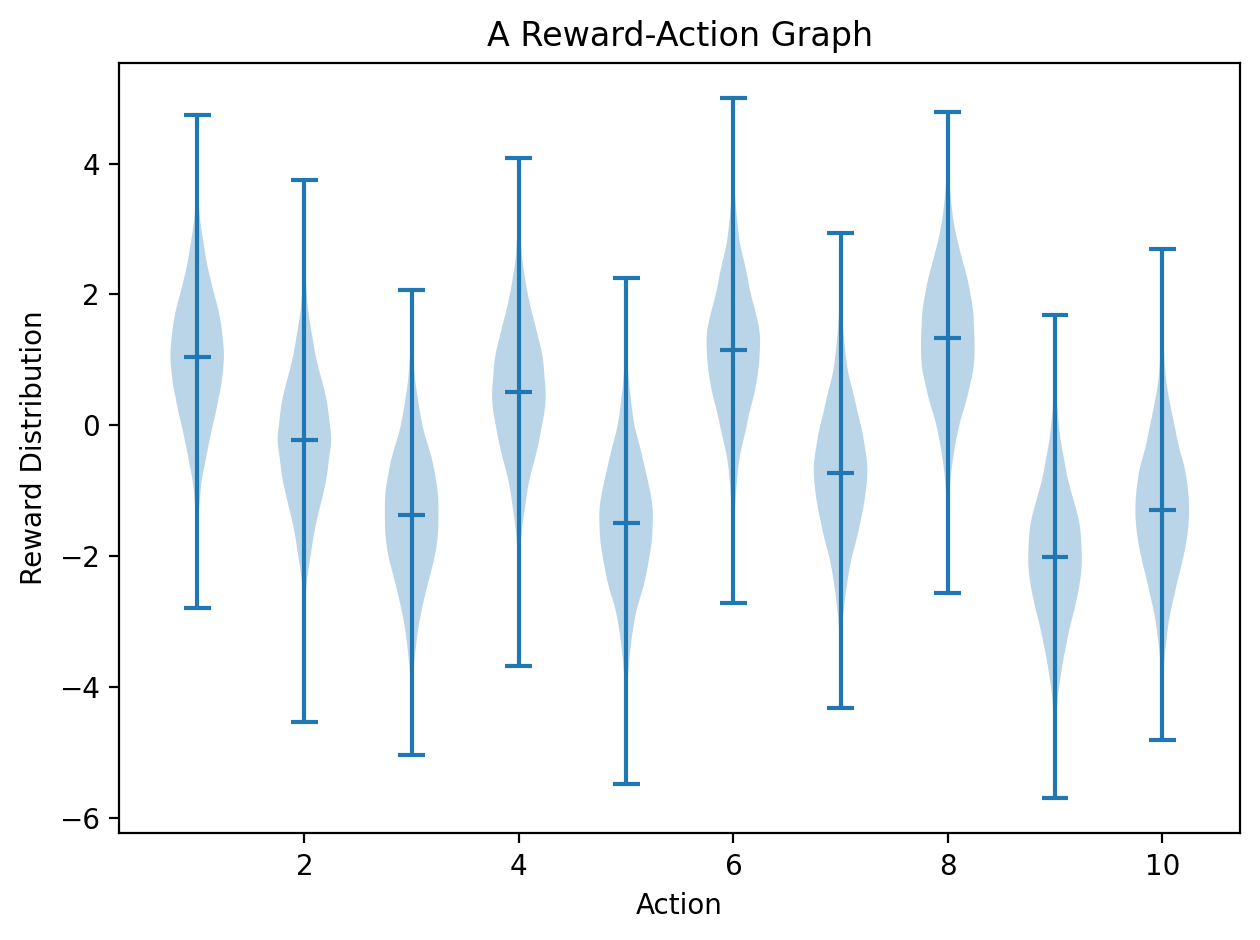
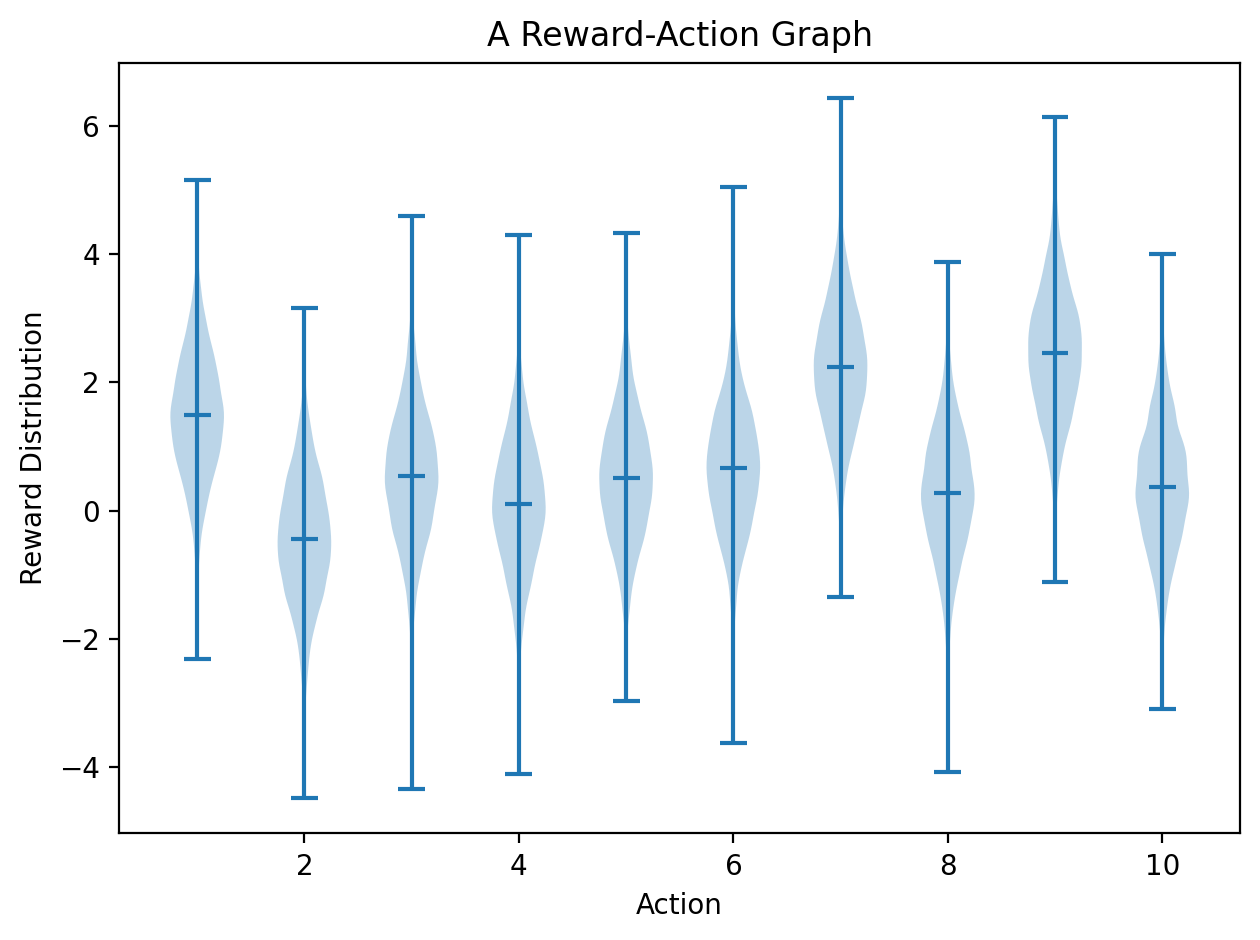
Added optimistic greedy, ucb and gradient bandits

diff --git a/exploitation_vs_exploration_algos/gradient_bandits.py b/exploitation_vs_exploration_algos/gradient_bandits.py
@@ -1,0 +1,25 @@
+import numpy as np
+class algo:
+    def __init__(self, k):
+        self.k = k
+        self.alpha = 1
+        self.counter=0
+        self.H_values = np.zeros(k, dtype=np.float64)
+        self.average_reward = 0
+        self.probability_distribution = np.array([(np.exp(self.H_values[i])/(np.exp(self.H_values).sum())) for i in range(k)])
+
+    def choose(self):
+        # π_t(a) = Pr{A_t = a} = exp(H_t(a)) / Σ_{b=1}^{k} exp(H_t(b))
+        chosen_index = np.random.choice(np.arange(self.k), p=self.probability_distribution)
+        self.counter+=1
+        return chosen_index
+    
+    def update(self, chosen_index, reward):
+        self.average_reward = (self.average_reward*(self.counter-1) + reward)/self.counter
+        #H_{t+1}(a) = H_t(a) + α (R_t - R̄_t) (1_{a=A_t} - π_t(a)) if a is the chosen action
+        self.H_values[chosen_index]=self.H_values[chosen_index] + self.alpha*(reward - self.average_reward)*(1-self.probability_distribution[chosen_index])
+        #H_{t+1}(a) = H_t(a) - α (R_t - R̄_t) π_t(a) if a isn't the chosen action
+        for i in range(self.k):
+            if i!=chosen_index:
+                self.H_values[i] = self.H_values[i] - self.alpha*(reward - self.average_reward)*self.probability_distribution[i]
+        self.probability_distribution = np.array([(np.exp(self.H_values[i])/(np.exp(self.H_values).sum())) for i in range(self.k)])

diff --git a/exploitation_vs_exploration_algos/ucb.py b/exploitation_vs_exploration_algos/ucb.py
@@ -2,17 +2,15 @@ import numpy as np
 class algo:
     def __init__(self, k):
         self.k = k
-        self.epsilon = 0.1
-        self.counter = np.zeros(k, dtype=int)
+        self.c = 2
+        self.counter = np.ones(k, dtype=int)
         self.Q_values = np.array([0.0 for i in range(k)], dtype=np.float64)
 
     def choose(self):
-        if np.random.random() < self.epsilon:
-            chosen_index = np.random.randint(0, self.k)
-        else:
-            chosen_index = np.argmax(self.Q_values)
-        self.counter[chosen_index]+=1
-        return chosen_index
+       # A_t = argmax_a [ Q_t(a) + c * sqrt(ln(t) / N_t(a)) ]
+       chosen_index = np.argmax(self.Q_values + self.c * np.sqrt(np.log(self.counter.sum())/self.counter))
+       self.counter[chosen_index]+=1
+       return chosen_index
     
     def update(self, chosen_index, reward):
         self.Q_values[chosen_index]=self.Q_values[chosen_index] + (reward - self.Q_values[chosen_index])/self.counter[chosen_index]

diff --git a/exploitation_vs_exploration_algos/visualise.py b/exploitation_vs_exploration_algos/visualise.py
@@ -1,13 +1,13 @@
 import numpy as np
 import matplotlib.pyplot as plt
-import strict_greedy, epsilon_greedy
+import strict_greedy, epsilon_greedy, optimistic_greedy, ucb, gradient_bandits
 
 k  = 10
 arm_values = np.random.normal(size=k)
 steps=1000
 runs=2000
-width = 12
-height = 4
+width = 14
+height = 7
 
 plt.violinplot(positions=range(1, k+1), dataset=[np.random.normal(loc = arm_value, size=10000) for arm_value in arm_values], showmeans=True)
 plt.ylabel("Reward Distribution")
@@ -19,7 +19,10 @@ plt.show()
 
 algorithms = {
     "Strict Greedy": strict_greedy,
-    "Epsilon Greedy": epsilon_greedy
+    "Epsilon Greedy": epsilon_greedy,
+    "Optimistic Greedy": optimistic_greedy,
+    "UCB": ucb,
+    "Gradient Bandits": gradient_bandits
 }
 def run(algorithm_name):
     reward_history=np.zeros(shape=(runs, steps))

diff --git a/exploitation_vs_exploration_algos/optimistic_greedy.py b/exploitation_vs_exploration_algos/optimistic_greedy.py
@@ -1,0 +1,15 @@
+import numpy as np
+class algo:
+    def __init__(self, k):
+        self.k = k
+        self.counter=np.zeros(k, dtype=int)
+        self.Q_values = np.array([5.0 for i in range(k)], dtype=np.float64)
+
+    def choose(self):
+        max_index = np.argmax(self.Q_values)
+        self.counter[max_index]+=1
+        return max_index
+    
+    def update(self, max_index, reward):
+        self.Q_values[max_index]=self.Q_values[max_index] + (reward - self.Q_values[max_index])/self.counter[max_index]
+        #Q_new(a) = Q_old(a) + (1/N(a)) * (R - Q_old(a)
